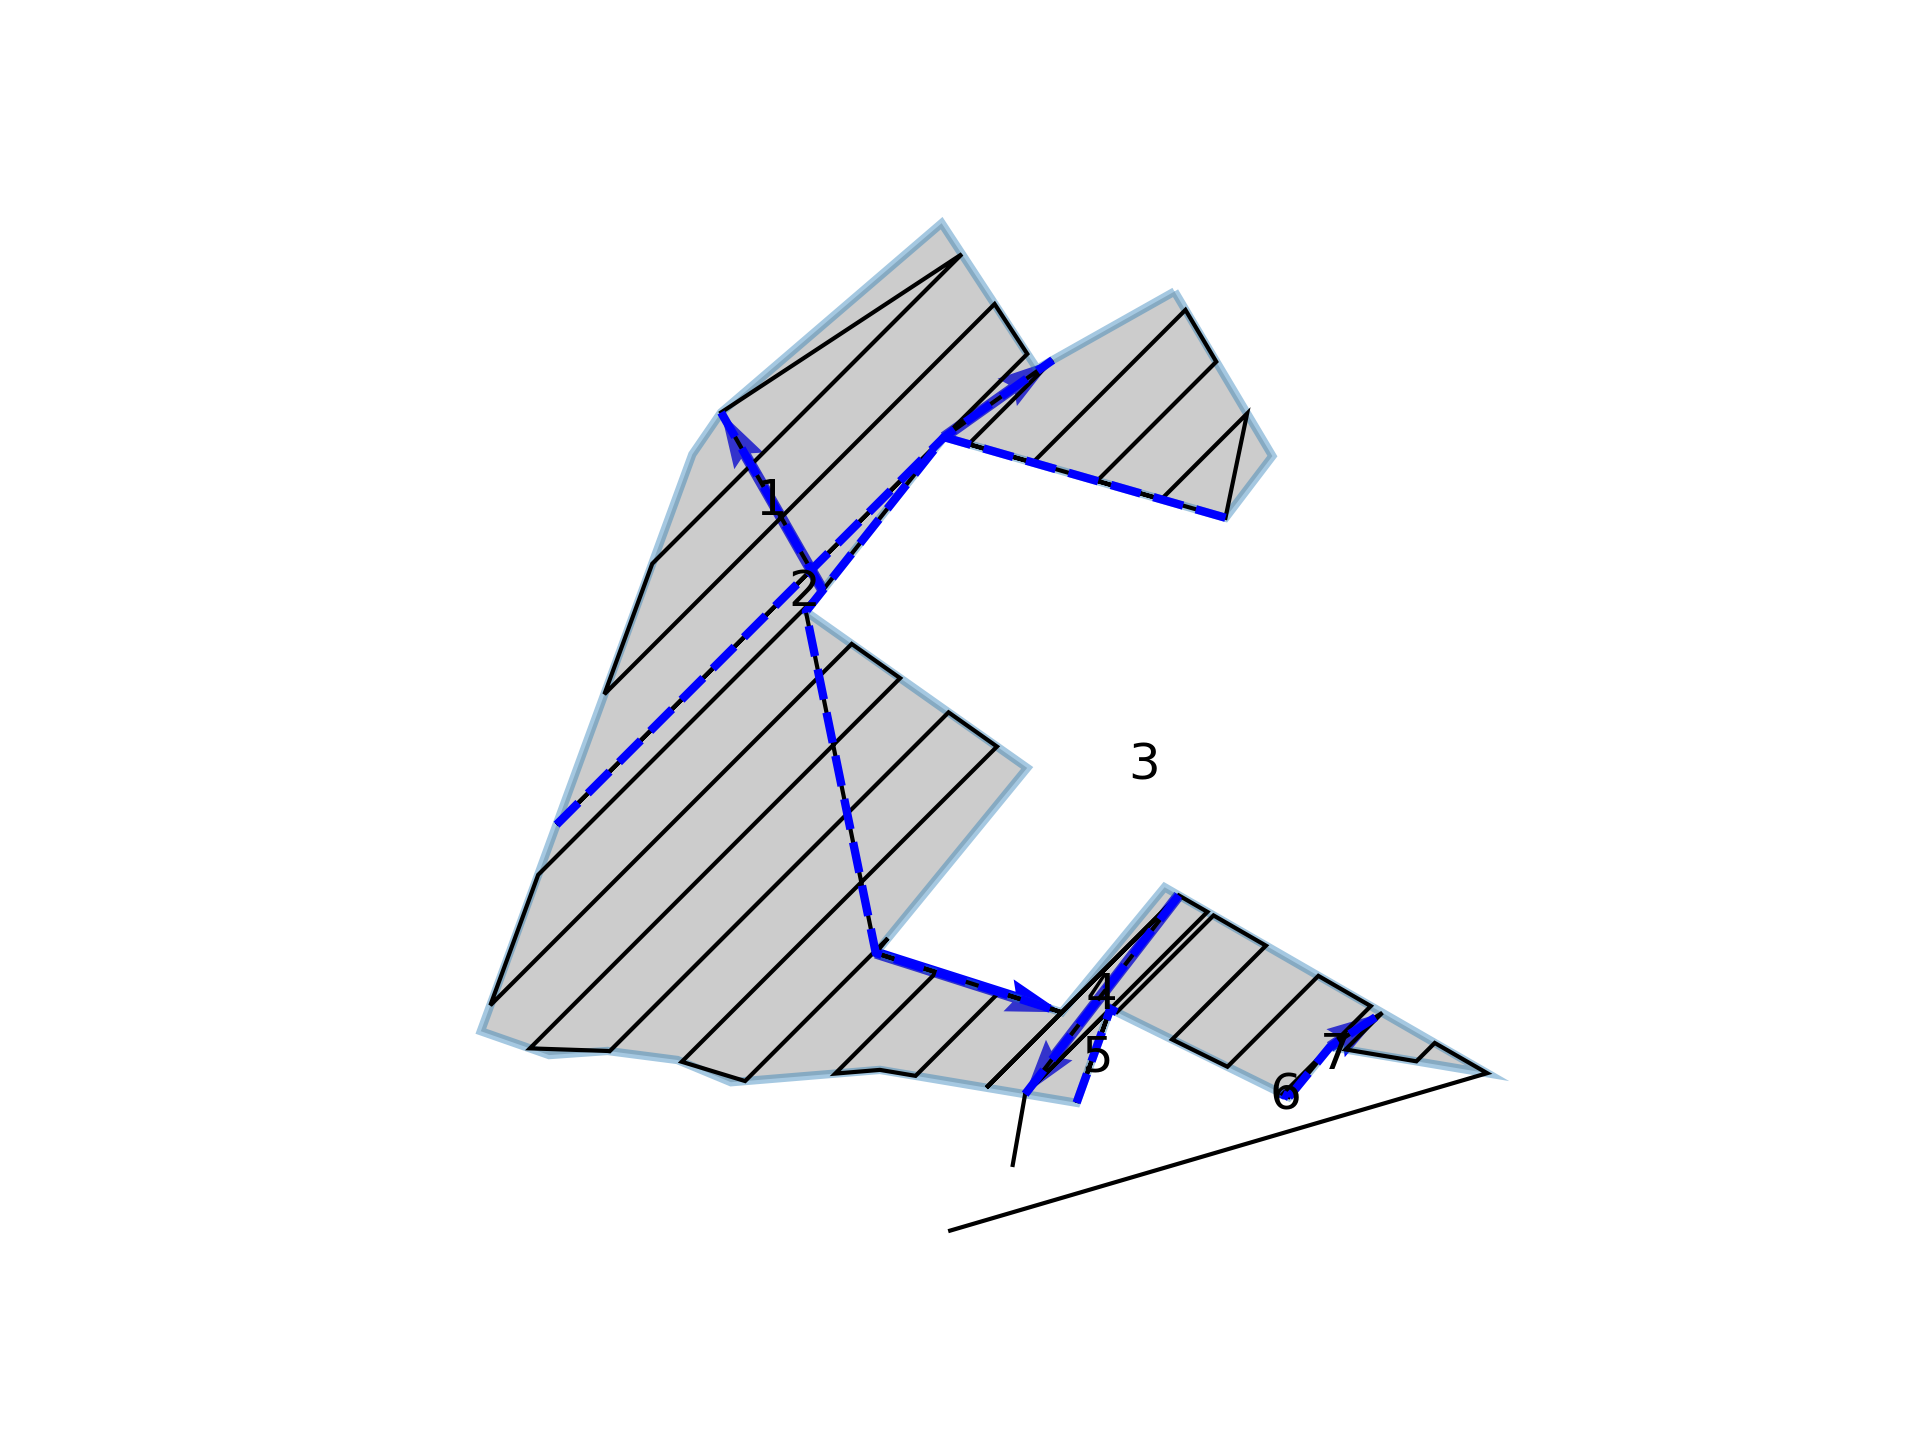
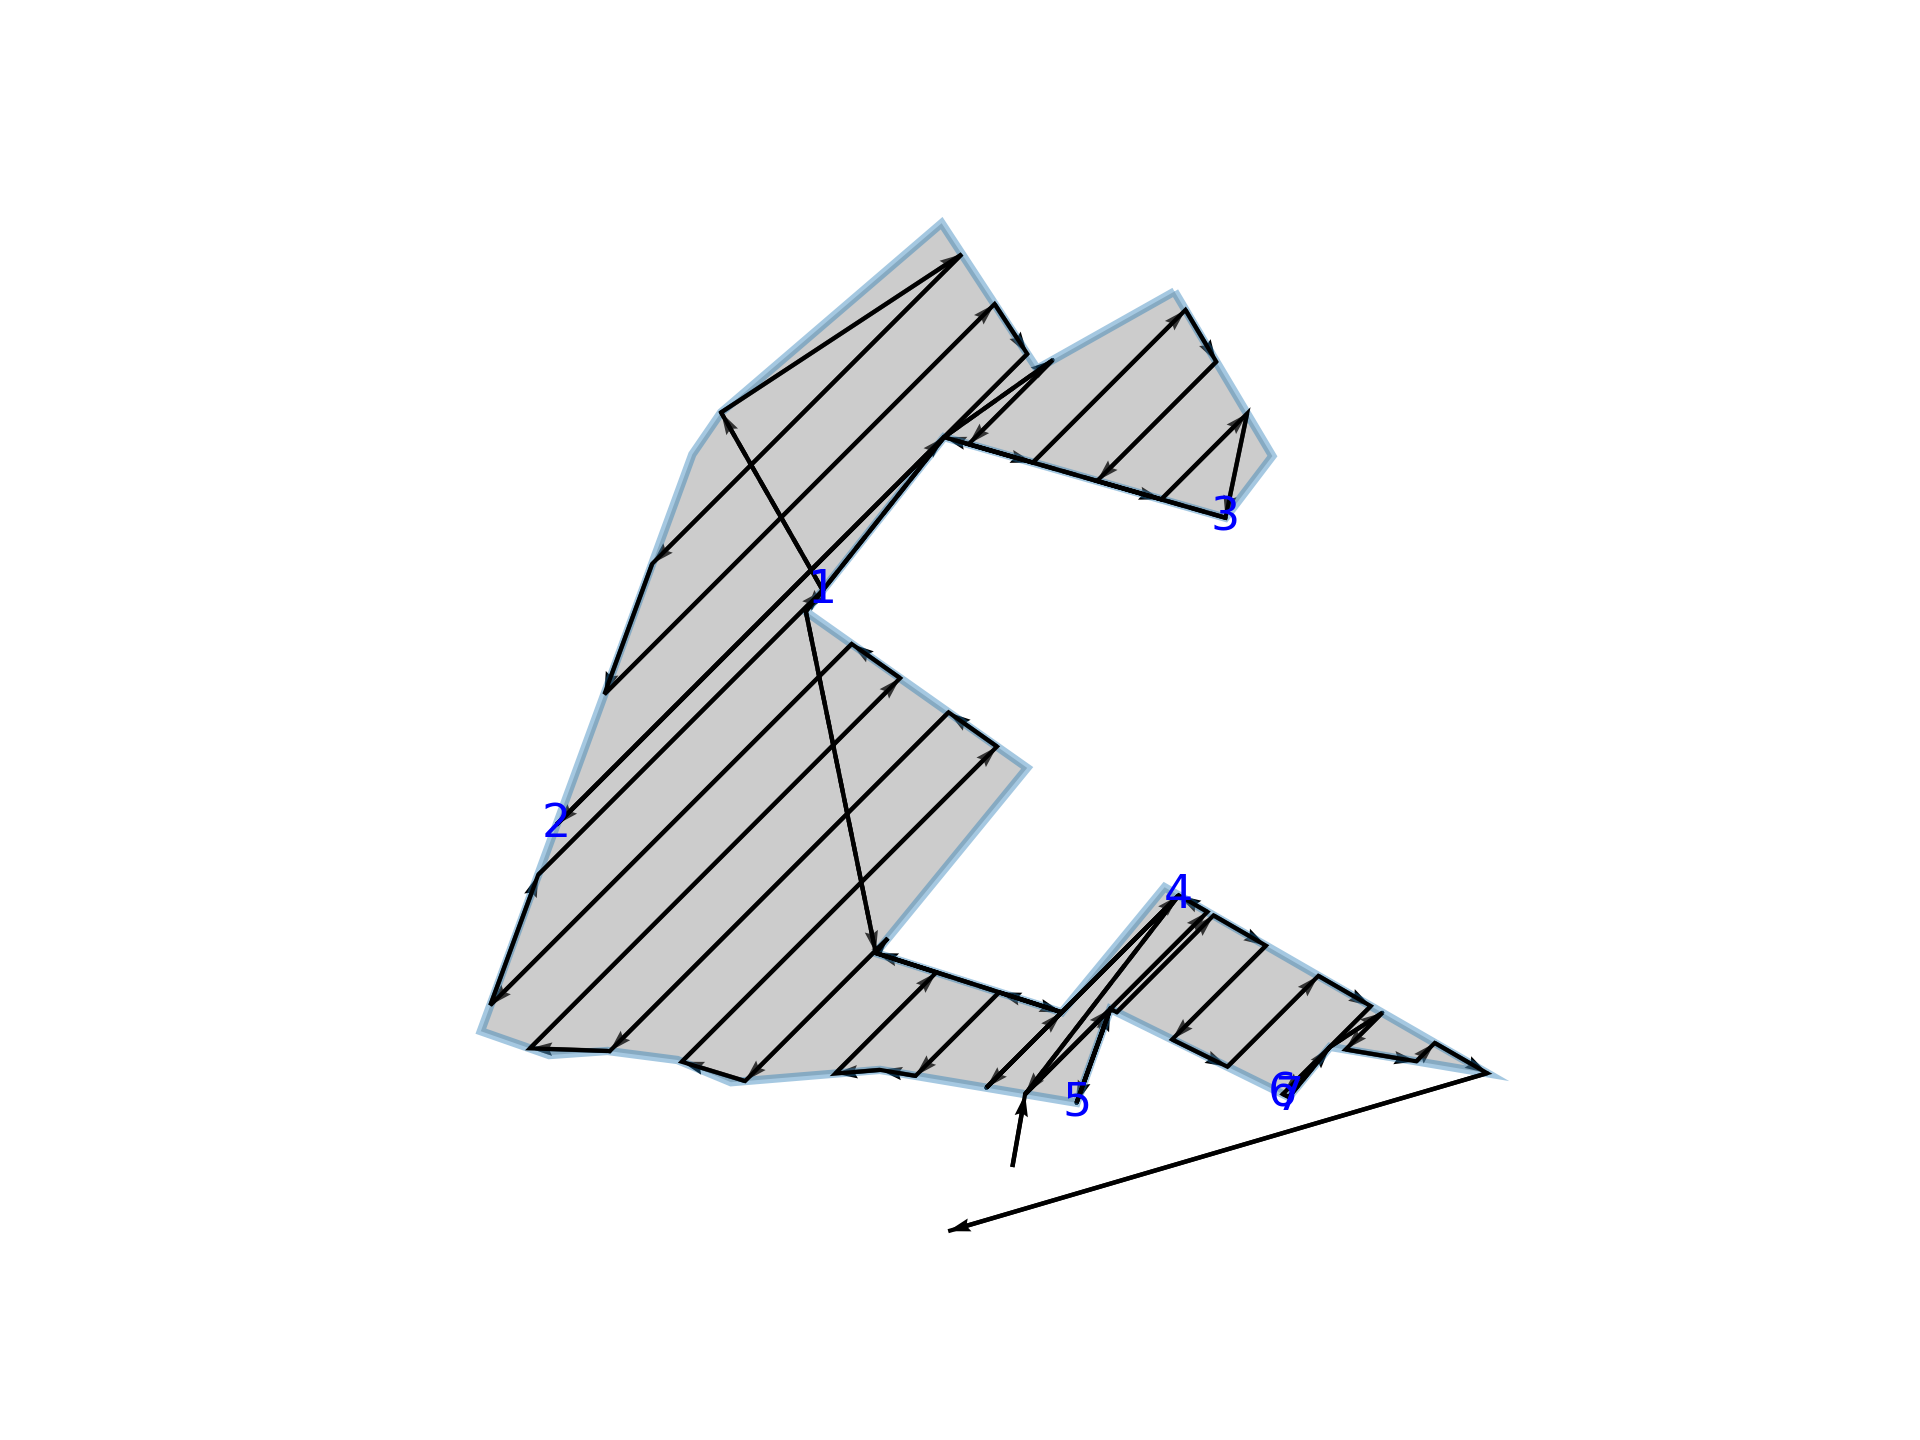
修正画图风格 TODO：代码清理，其他开发，接口输入输出，路径分析等

diff --git a/trajgenpy/Geometries.py b/trajgenpy/Geometries.py
@@ -208,6 +208,17 @@ class DFSearcher:
         if forward_lines:
             forward_multilines = shapely.MultiLineString(forward_lines)
             self.forward_plot_multilines(forward_multilines)
+
+        import matplotlib.pyplot as plt
+        from shapely.affinity import rotate
+        for i in range(1, len(result)):
+            # 添加箭头
+            prev = shapely.Point(result[i-1])
+            cur = shapely.Point(result[i])
+            prev = rotate(prev, angle=-45, origin=(0, 0))
+            cur = rotate(cur, angle=-45, origin=(0, 0))
+            plt.quiver(prev.x, prev.y, cur.x - prev.x, cur.y - prev.y,
+            angles='xy', scale_units='xy', scale=1, color='black', width=0.003)
         return
 
     def forward_plot_multilines(self, multilines):
@@ -216,15 +227,15 @@ class DFSearcher:
         for line in multilines.geoms:
             line = rotate(line, angle=-45, origin=(0, 0))
             x, y = line.xy
-            plt.plot(x, y, linestyle='dashed', color='blue', linewidth=2)
+            plt.plot(x, y, linestyle='dashed', color='black', linewidth=1)
             # 添加箭头
-            plt.quiver(x[-2], y[-2], x[-1] - x[-2], y[-1] - y[-2],
-            angles='xy', scale_units='xy', scale=1, color='blue')
+            #plt.quiver(x[-2], y[-2], x[-1] - x[-2], y[-1] - y[-2],
+            #angles='xy', scale_units='xy', scale=1, color='blue')
             # 在箭头中间添加序号
             self.blue_cnt += 1
-            mid_x = (x[0] + x[-1]) / 2
-            mid_y = (y[0] + y[-1]) / 2
-            plt.text(mid_x, mid_y, str(self.blue_cnt), fontsize=12, ha='center', va='center', color='black')
+            tar_x = x[0]
+            tar_y = y[0]
+            plt.text(tar_x, tar_y, str(self.blue_cnt), fontsize=11, ha='center', va='center', color='blue')
 
         plt.show()
 
